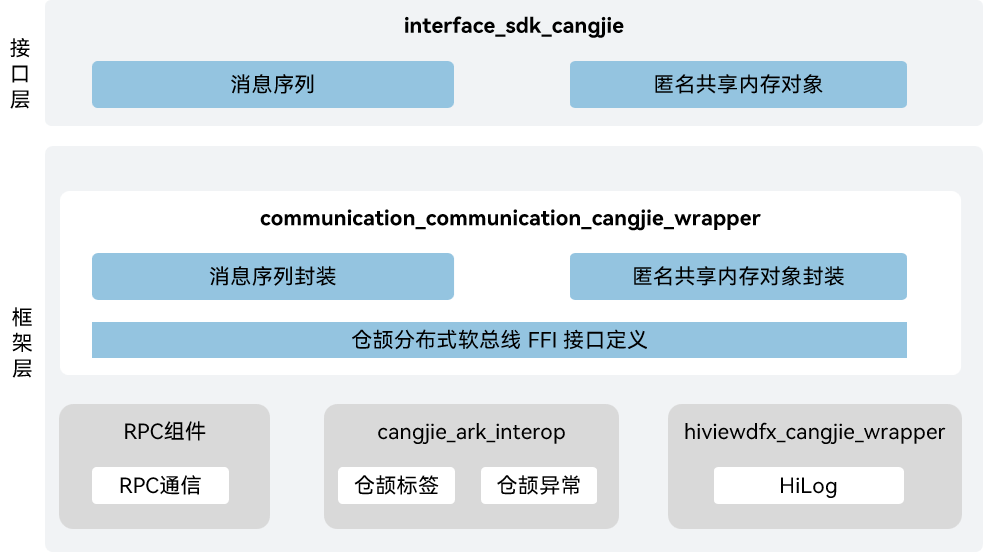
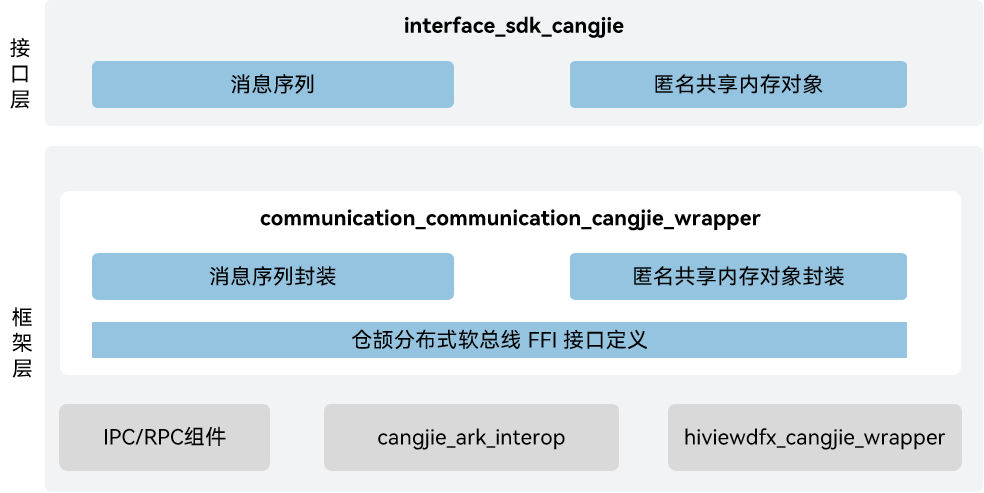
update README

diff --git a/README.md b/README.md
@@ -2,7 +2,7 @@
 
 ## Introduction
 
-The Distributed Softbus Cangjie API is a Cangjie API encapsulated on OpenHarmony based on the capabilities of the Distributed Softbus Subsystem. The distributed soft bus subsystem is designed to provide communication-related capabilities for the OpenHarmony system. The currently open distributed soft bus Cangjie interface only supports standard devices.
+The distributed soft bus subsystem is designed to provide communication-related capabilities for the OpenHarmony system. The currently open distributed soft bus Cangjie interface only supports standard devices.
 
 ## System Architecture
 
@@ -12,10 +12,20 @@ The Distributed Softbus Cangjie API is a Cangjie API encapsulated on OpenHarmony
 
 As shown in the architecture diagram:
 
+Interface:
+
 - MessageSequence: Provides the data format used for communication.
 - Ashmem: Provides methods related to anonymous shared memory objects.
+
+Framework:
+
+- MessageSequence wrapper: Implementation encapsulation of Cangjie MessageSequence, providing MessageSequence capabilities.
+- Ashmem wrapper: Implementation encapsulation of Cangjie Ashmem, providing Ashmem capabilities.
 - Cangjie distributed soft bus FFI interface definition: Responsible for defining the C Language interoperable Cangjie interface, which is used to realize Cangjie's distributed soft bus capabilities.
-- Remote Procedure Call: Responsible for providing basic RPC functions, and encapsulating the C Language interface to provide Cangjie for interoperability.
+
+- Explanation of Dependencies in the Architecture Diagram:
+
+- communication_ipc: Responsible for providing basic RPC functions, and encapsulating the C Language interface to provide Cangjie for interoperability.
 - cangjie_ark_interop: Responsible for providing Cangjie APILevel class definitions, which are used to annotate APIs, as well as providing the definition of BusinessException class that is thrown to users.
 - hiviewdfx_cangjie_wrapper: Responsible for providing logging interfaces, which are used to print logs at key points in the execution path.
 
@@ -43,13 +53,15 @@ The current distributed soft bus Cangjie interface provides the following functi
 - Provides basic types and data formats for communication, such as arrays, IPC objects, interface descriptors, and custom serialization objects.
 - Provides methods related to anonymous shared memory objects, including creating, closing, mapping, and unmapping Ashmem, reading and writing data from Ashmem, getting Ashmem size, and setting Ashmem protection.
 
+See Camera APIs[RPC Communication](https://gitcode.com/openharmony-sig/arkcompiler_cangjie_ark_interop/blob/master/doc/API_Reference/source_en/apis/IPCKit/cj-apis-rpc.md).For guidance, please refer to[RPC Development Guide](https://gitcode.com/openharmony-sig/arkcompiler_cangjie_ark_interop/blob/master/doc/Dev_Guide/source_en/ipc/cj-ipc-rpc-overview.md).
+
+## Constraints
+
 Compared with ArkTS, the following functions are not supported at the moment:
 
 - Implement IRemoteObject proxy objects.
 - Obtain IPC context information, including obtaining UID and PID, obtaining local and peer device IDs, and checking whether interface calls are on the same device.
 - Implement remote objects.
-
-See Camera APIs[RPC Communication](https://gitcode.com/openharmony-sig/arkcompiler_cangjie_ark_interop/blob/master/doc/API_Reference/source_en/apis/IPCKit/cj-apis-rpc.md).For guidance, please refer to[RPC Development Guide](https://gitcode.com/openharmony-sig/arkcompiler_cangjie_ark_interop/blob/master/doc/Dev_Guide/source_en/ipc/cj-ipc-rpc-overview.md).
 
 ## Code Contribution
 
@@ -57,7 +69,7 @@ Developers are welcome to contribute code, documentation, etc. For specific cont
 
 ## Repositories Involved
 
-[ark_compiler_cangjie_ark_interop](https://gitcode.com/openharmony-sig/arkcompiler_cangjie_ark_interop)
+[arkcompiler_cangjie_ark_interop](https://gitcode.com/openharmony-sig/arkcompiler_cangjie_ark_interop)
 
 [communication_ipc](https://gitcode.com/openharmony/communication_ipc)
 

diff --git a/README_zh.md b/README_zh.md
@@ -1,8 +1,8 @@
-# 分布式软总线仓颉接口
+# 分布式软总线仓颉封装
 
 ## 简介
 
-分布式软总线仓颉接口是在OpenHarmony上基于分布式软总线子系统能力之上封装的仓颉API。分布式软总线子系统旨在为OpenHarmony系统提供跨进程通信相关的能力。当前开放的分布式软总线仓颉接口仅支持standard设备。
+分布式软总线子系统旨在为OpenHarmony系统提供跨进程通信相关的能力。当前开放的分布式软总线仓颉接口仅支持standard设备。
 
 ## 系统架构
 
@@ -12,10 +12,20 @@
 
 如架构图所示：
 
+接口层：
+
 - 消息序列：提供基础类型及数组、IPC对象、接口描述符和自定义序列化对象等用来通信的数据格式。
 - 匿名共享内存对象：提供与匿名共享内存对象相关的方法，包括创建、关闭、映射和取消映射Ashmem、从Ashmem读取数据和写入数据、获取Ashmem大小、设置Ashmem保护。
+
+框架层：
+
+- 消息序列封装：仓颉消息序列的实现封装，提供消息序列能力。
+- 匿名共享内存对象封装：仓颉匿名共享内存对象的实现封装，提供匿名共享内存对象能力。
 - 仓颉分布式软总线FFI接口定义：负责定义C语言互操作仓颉接口，用于实现仓颉分布式软总线能力。
-- RPC通信：负责提供RPC基础功能，封装C语言接口提供给仓颉进行互操作。
+
+架构图中的依赖部件引入说明：
+
+- IPC/RPC组件：负责提供RPC基础功能，封装C语言接口提供给仓颉进行互操作。
 - cangjie_ark_interop：负责提供仓颉注解类定义，用于对API进行标注，以及提供抛向用户的BusinessException异常类定义。
 - hiviewdfx_cangjie_wrapper：负责提供日志接口，用于在关键路径处打印日志。
 
@@ -43,13 +53,15 @@ foundation/communication/communication_cangjie_wrapper
 - 提供基础类型及数组、IPC对象、接口描述符和自定义序列化对象等用来通信的数据格式。
 - 提供与匿名共享内存对象相关的方法，包括创建、关闭、映射和取消映射Ashmem、从Ashmem读取数据和写入数据、获取Ashmem大小、设置Ashmem保护。
 
+RPC相关API请参见[RPC通信](https://gitcode.com/openharmony-sig/arkcompiler_cangjie_ark_interop/blob/master/doc/API_Reference/source_zh_cn/apis/IPCKit/cj-apis-rpc.md)，相关指导请参见[RPC开发指南](https://gitcode.com/openharmony-sig/arkcompiler_cangjie_ark_interop/blob/master/doc/Dev_Guide/source_zh_cn/ipc/cj-ipc-rpc-overview.md)。
+
+## 约束
+
 与ArkTS提供的API能力相比，暂不支持以下功能：
 
 - 实现IRemoteObject代理对象。
 - 获取IPC上下文信息，包括获取UID和PID、获取本端和对端设备ID、检查接口调用是否在同一设备上。
 - 实现远程对象。
-
-RPC相关API请参见[RPC通信](https://gitcode.com/openharmony-sig/arkcompiler_cangjie_ark_interop/blob/master/doc/API_Reference/source_zh_cn/apis/IPCKit/cj-apis-rpc.md)，相关指导请参见[RPC开发指南](https://gitcode.com/openharmony-sig/arkcompiler_cangjie_ark_interop/blob/master/doc/Dev_Guide/source_zh_cn/ipc/cj-ipc-rpc-overview.md)。
 
 ## 参与贡献
 
@@ -57,7 +69,7 @@ RPC相关API请参见[RPC通信](https://gitcode.com/openharmony-sig/arkcompiler
 
 ## 相关仓
 
-[ark_compiler_cangjie_ark_interop](https://gitcode.com/openharmony-sig/arkcompiler_cangjie_ark_interop)
+[arkcompiler_cangjie_ark_interop](https://gitcode.com/openharmony-sig/arkcompiler_cangjie_ark_interop)
 
 [communication_ipc](https://gitcode.com/openharmony/communication_ipc)
 
